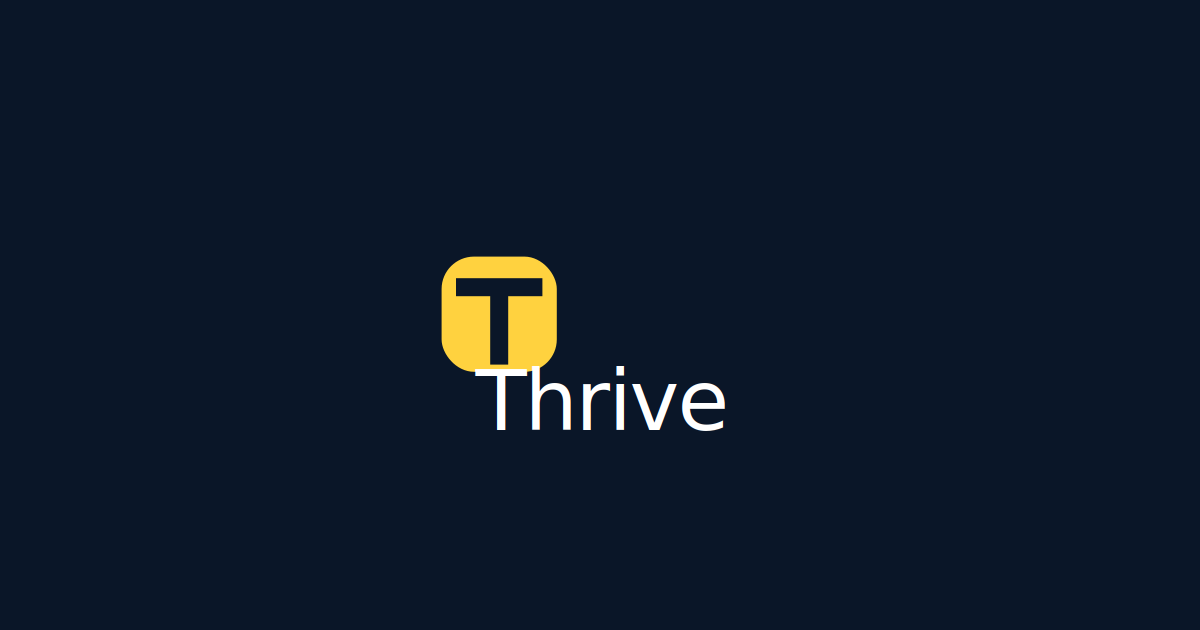
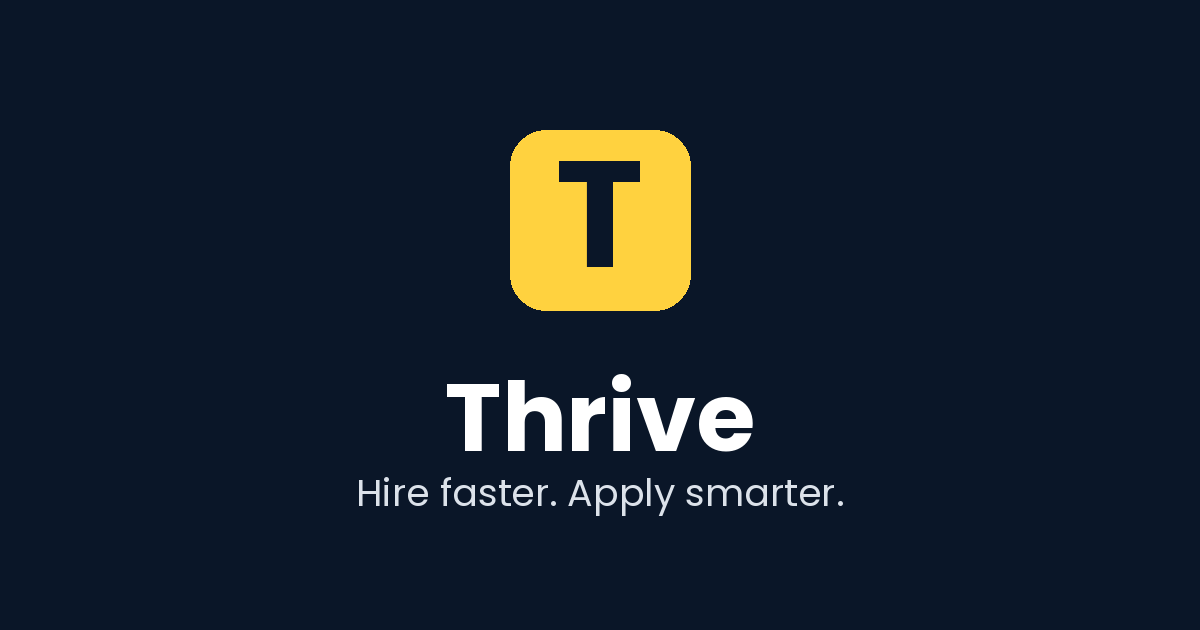
feat(meta): rebrand Open Graph + meta tags for hospitality positioning — pre-pivot copy was misaligned and showed wrong on WhatsApp/LinkedIn previews. New OG image (1200×630) replaces the wordmark-collision rendering.
app/layout.tsx — title, description, og/twitter title + description, og
image alt, and keywords array all swap from "Free UK Job Board | all UK
sectors" copy to "Hiring platform for hospitality | restaurants, hotels,
hospitality groups". metadataBase stays as-is (already correct).

app/opengraph-image.png — replaced (10.4kB → 13.5kB) with the approved
1200×630 image. Same Next.js file-based convention path, so og:image
URL is unchanged.

app/opengraph-image.alt.txt — new sidecar file. Next.js's file-based
opengraph-image convention ignores metadata.openGraph.images[0].alt
once the static PNG is in place; the .alt.txt sibling is the
convention for emitting og:image:alt. Verified in the production build
RSC output: "og:image:alt"…"Thrive — Hire faster. Apply smarter."

Per-route metadata in app/jobs/*/layout.tsx and ~16 other layouts still
carry pre-pivot copy — flagged as a separate cleanup pass.

Changed region(s): [[0.37, 0.181, 0.6475, 0.7238], [0.2775, 0.754, 0.7092, 0.8143]]

diff --git a/app/layout.tsx b/app/layout.tsx
@@ -37,11 +37,11 @@ const SITE_URL = process.env.NEXT_PUBLIC_SITE_URL || 'https://thrivecareer.co.uk
 export const metadata: Metadata = {
   metadataBase: new URL(SITE_URL),
   title: {
-    default: 'Thrive — Free UK Job Board | No Agency Fees',
+    default: 'Thrive — Hiring platform for hospitality',
     template: '%s | Thrive',
   },
-  description: 'Find jobs or hire great people across all UK sectors. Post unlimited jobs free — no agency fees, no card needed. Search candidates, manage applications and schedule interviews in one platform.',
-  keywords: ['UK jobs', 'job board', 'find jobs UK', 'hire staff UK', 'no agency fees', 'free job posting', 'jobs across all sectors', 'Thrive'],
+  description: 'Hire faster for restaurants, hotels and hospitality groups. Manage applicants across kitchen, front of house, sales and operations. £99/month, 3-month free trial.',
+  keywords: ['hospitality jobs UK', 'restaurant jobs London', 'hotel jobs UK', 'chef jobs London', 'front of house jobs', 'hospitality hiring platform', 'restaurant hiring software', 'Thrive'],
   authors: [{ name: 'Thrive' }],
   creator: 'Thrive',
   publisher: 'Thrive',
@@ -50,21 +50,21 @@ export const metadata: Metadata = {
     locale: 'en_GB',
     url: SITE_URL,
     siteName: 'Thrive',
-    title: 'Thrive — Free UK Job Board | No Agency Fees',
-    description: 'Find jobs or hire great people across all UK sectors. Post unlimited jobs free — no agency fees, no card needed.',
+    title: 'Thrive — Hiring platform for hospitality',
+    description: 'Hire faster for restaurants, hotels and hospitality groups. Manage applicants across kitchen, front of house, sales and operations.',
     images: [
       {
         url: '/opengraph-image',
         width: 1200,
         height: 630,
-        alt: 'Thrive — Free UK Job Board',
+        alt: 'Thrive — Hire faster. Apply smarter.',
       },
     ],
   },
   twitter: {
     card: 'summary_large_image',
-    title: 'Thrive — Free UK Job Board | No Agency Fees',
-    description: 'Find jobs or hire great people across all UK sectors. Post unlimited jobs free — no agency fees, no card needed.',
+    title: 'Thrive — Hiring platform for hospitality',
+    description: 'Hire faster for restaurants, hotels and hospitality groups. Manage applicants across kitchen, front of house, sales and operations.',
     images: ['/opengraph-image'],
   },
   robots: {
